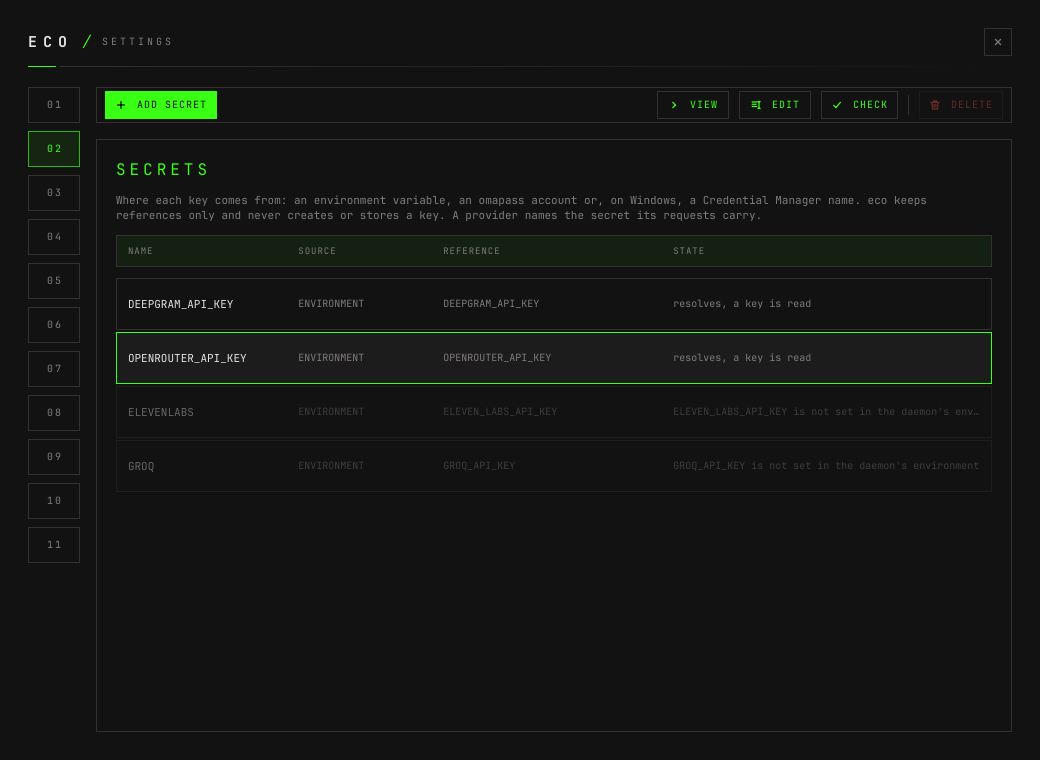
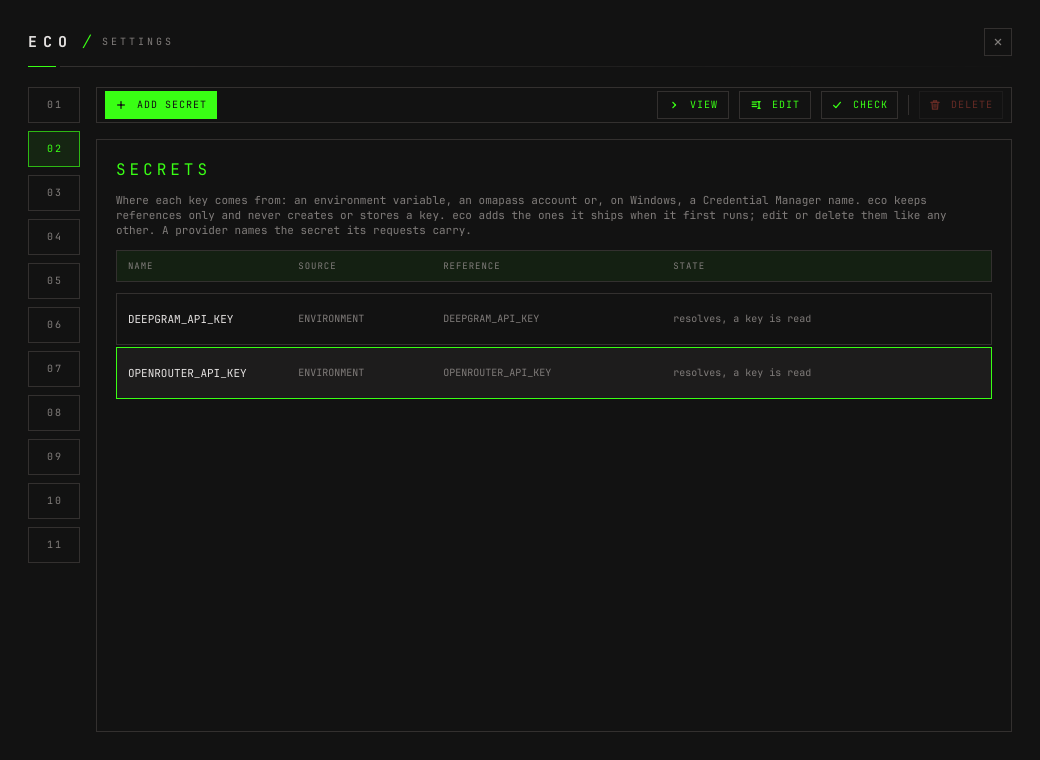
docs(screens): regenerate the settings tables without presets

diff --git a/docs/screens.md b/docs/screens.md
@@ -706,7 +706,7 @@ you any more. Dropping echoes and echo cancellation are under General.
 an environment variable, an omapass account or, on Windows, a Credential
 Manager name. It is never the key: eco does not create, store or show one.
 
-![Settings, 02 SECRETS: the bar with ADD SECRET, VIEW, EDIT, CHECK and a dimmed DELETE; "Where each key comes from…"; a table NAME · SOURCE · REFERENCE · STATE with DEEPGRAM_API_KEY and OPENROUTER_API_KEY (picked), each ENVIRONMENT and "resolves, a key is read", then, dim, the presets ELEVENLABS and GROQ, each saying its variable "is not set in the daemon's environment"; OPENROUTER and DEEPGRAM are not listed, the user's secrets reading the same variables.](img/41-settings-secrets.png)
+![Settings, 02 SECRETS: the bar with ADD SECRET, VIEW, EDIT, CHECK and a dimmed DELETE; "Where each key comes from…"; a table NAME · SOURCE · REFERENCE · STATE with DEEPGRAM_API_KEY and OPENROUTER_API_KEY (picked), each ENVIRONMENT and "resolves, a key is read" — entries like any other, edited or deleted from the bar.](img/41-settings-secrets.png)
 
 STATE tells whether the daemon reads a key from the reference now: "resolves,
 a key is read", or why not (the variable is not set, omapass is missing or
@@ -751,7 +751,7 @@ the Credential Manager. Here the picker is open, nothing picked from it:
 secret its requests carry, picked from the Secrets section, or none for a
 server on your network.
 
-![Settings, 03 PROVIDERS: the bar with ADD PROVIDER, VIEW, EDIT and a dimmed DELETE; a table NAME · BASE URL · SECRET · USED BY with 192.0.2.10 (none, whisper-lan), deepgram, openrouter (picked; gemini-flash, claude-haiku), then, dim, the presets OPENROUTER, ELEVENLABS, DEEPGRAM and GROQ with the preset models that use them.](img/44-settings-providers.png)
+![Settings, 03 PROVIDERS: the bar with ADD PROVIDER, VIEW, EDIT and a dimmed DELETE; a table NAME · BASE URL · SECRET · USED BY with 192.0.2.10 (none, whisper-lan), deepgram, openrouter (picked; gemini-flash, claude-haiku).](img/44-settings-providers.png)
 
 The providers eco ships — OpenRouter, ElevenLabs, Deepgram and Groq, each with
 its secret of the same name — are added when eco first runs and are rows like
@@ -767,7 +767,7 @@ one) and its secret, a chip per secret and one for none.
 name, a type, a provider picked from the Providers section and the id that
 provider knows it by; this section registers models and nothing else.
 
-![Settings, 04 MODELS: the bar with ADD MODEL, VIEW, EDIT, the defaults by their short names, a dimmed FOR CHAT, a dimmed FOR TRANSLATION and FOR REVIEW, and a dimmed DELETE; "Register each model once — chat or transcription — with a provider from the Providers tab…"; a table NAME · TYPE · MODEL ID · DEFAULT · USED BY · STATE: whisper-lan (TRANSCRIPTION · whisper-large-v3-turbo · TRANSCRIPTION · MEETING, CONVERSATION…), deepgram (TRANSCRIPTION · nova-3 · · INTERVIEW), gemini-flash (CHAT · google/gemini-2.5-flash · CHAT · TRANSLATION · MEETING, CONVERSATION…, picked), claude-haiku (CHAT · anthropic/claude-haiku-4.5 · REVIEW · minutes), then the presets gpt-6-luna and nova-3 ("preset") and scribe-v2 and whisper-turbo, dim, "preset, disabled".](img/46-settings-models.png)
+![Settings, 04 MODELS: the bar with ADD MODEL, VIEW, EDIT, the defaults by their short names, a dimmed FOR CHAT, a dimmed FOR TRANSLATION and FOR REVIEW, and a dimmed DELETE; "Register each model once — chat or transcription — with a provider from the Providers tab…"; a table NAME · TYPE · MODEL ID · DEFAULT · USED BY · STATE: whisper-lan (TRANSCRIPTION · whisper-large-v3-turbo · TRANSCRIPTION · MEETING, CONVERSATION…), deepgram (TRANSCRIPTION · nova-3 · · INTERVIEW), gemini-flash (CHAT · google/gemini-2.5-flash · CHAT · TRANSLATION · MEETING, CONVERSATION…, picked), claude-haiku (CHAT · anthropic/claude-haiku-4.5 · REVIEW · minutes); STATE is empty, for every key is set.](img/46-settings-models.png)
 
 The models eco ships — `gpt-6-luna`, `scribe-v2`, `nova-3` and
 `whisper-turbo` — are added when eco first runs and are rows like any other. A

diff --git a/docs/how-to-register-models.md b/docs/how-to-register-models.md
@@ -175,7 +175,7 @@ key is not set, STATE "disabled". It stays in the table, dim; its reason is the
 hint of the commands it cannot take. The models eco ships are added when it
 first runs; edit or delete them like yours.
 
-![The Models section: the rail of sections down the left, with 04 marked; the bar with ADD MODEL, VIEW, EDIT, the defaults by their short names, a dimmed FOR CHAT, a dimmed FOR TRANSLATION and FOR REVIEW, and a dimmed DELETE; "Register each model once — chat or transcription — with a provider from the Providers tab…"; and a table of whisper-lan (TRANSCRIPTION, whisper-large-v3-turbo, default TRANSCRIPTION, used by MEETING, CONVERSATION…), deepgram (TRANSCRIPTION, nova-3, INTERVIEW), gemini-flash (CHAT, google/gemini-2.5-flash, default CHAT · TRANSLATION, MEETING…, picked), claude-haiku (CHAT, anthropic/claude-haiku-4.5, default REVIEW, minutes), then the models eco ships, dim where disabled.](img/46-settings-models.png)
+![The Models section: the rail of sections down the left, with 04 marked; the bar with ADD MODEL, VIEW, EDIT, the defaults by their short names, a dimmed FOR CHAT, a dimmed FOR TRANSLATION and FOR REVIEW, and a dimmed DELETE; "Register each model once — chat or transcription — with a provider from the Providers tab…"; and a table of whisper-lan (TRANSCRIPTION, whisper-large-v3-turbo, default TRANSCRIPTION, used by MEETING, CONVERSATION…), deepgram (TRANSCRIPTION, nova-3, INTERVIEW), gemini-flash (CHAT, google/gemini-2.5-flash, default CHAT · TRANSLATION, MEETING…, picked), claude-haiku (CHAT, anthropic/claude-haiku-4.5, default REVIEW, minutes).](img/46-settings-models.png)
 
 **A chat model is optional.** Without one eco records, transcribes and keeps
 notes; the **Prompts**, **Context** and **Skills** sections say NO CHAT MODEL
